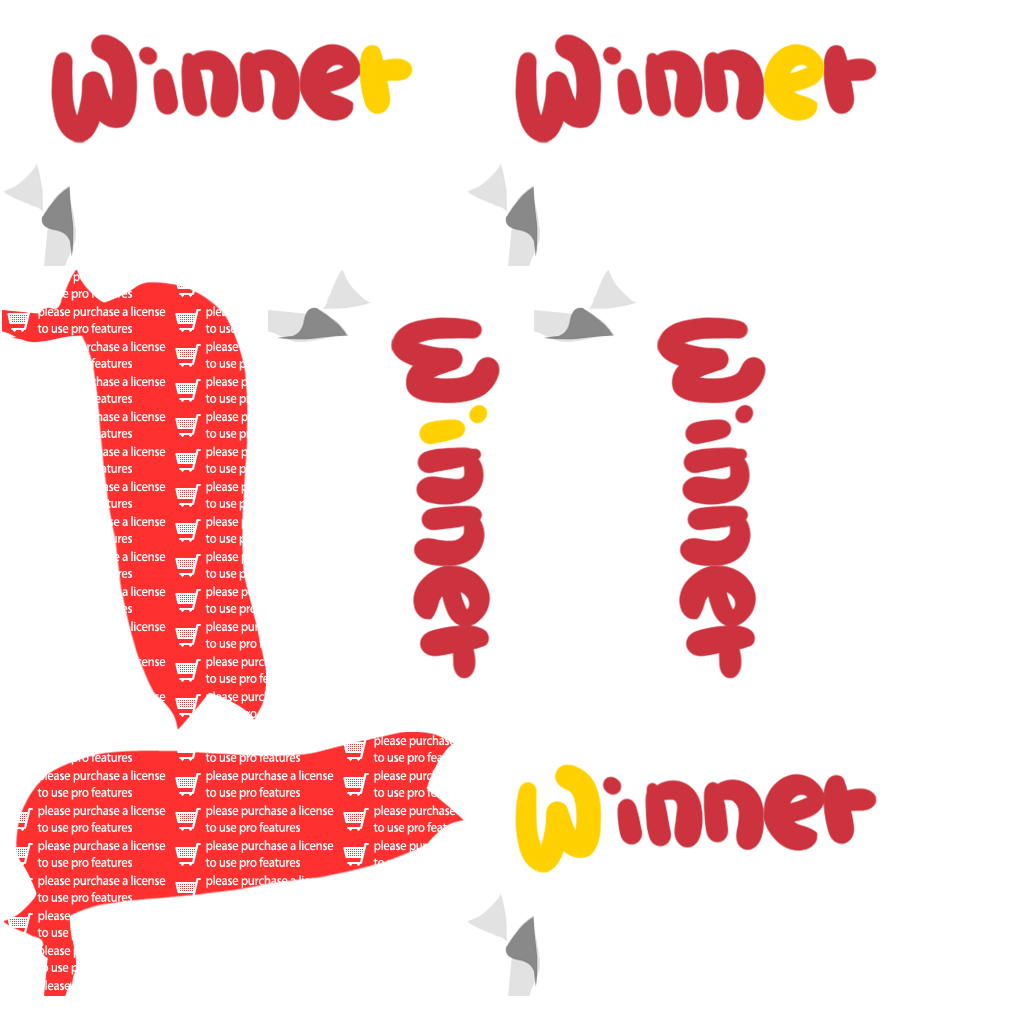
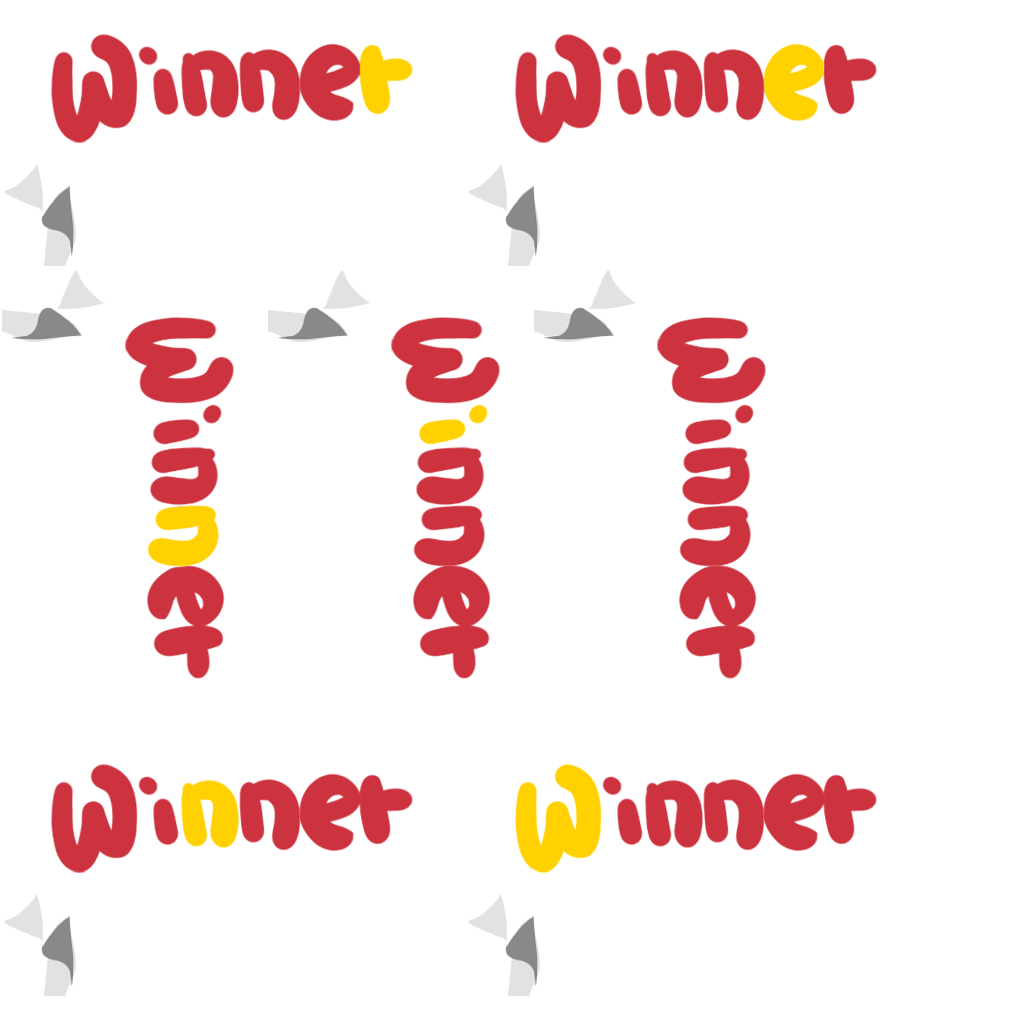
애니메이션 이미지 바꿈

Changed region(s): [[0.0, 0.25, 0.4688, 0.9688]]

diff --git a/Classes/ResultScoreLayer.cpp b/Classes/ResultScoreLayer.cpp
@@ -91,11 +91,11 @@ bool CResultScoreLayer::init()
             cache->addSpriteFramesWithFile(RESULT_WINNER_PLIST.c_str());
             
             
-            CCArray* animFrames = CCArray::createWithCapacity(6);
+            CCArray* animFrames = CCArray::createWithCapacity(7);
             
             char str[100] = {0};
             
-            for(int i = 1; i < 7; i++)
+            for(int i = 1; i < 8; i++)
             {
                 sprintf(str, "result_winner_ani_000%02d.png", i);
                 
@@ -109,7 +109,7 @@ bool CResultScoreLayer::init()
             spritebatch->addChild(pWinner);
             addChild(spritebatch,2);
 
-            CCAnimation* animation = CCAnimation::createWithSpriteFrames(animFrames,1.0f);
+            CCAnimation* animation = CCAnimation::createWithSpriteFrames(animFrames,0.3f);
             CCRepeatForever* repeatAction = CCRepeatForever::create(CCAnimate::create(animation));
             pWinner->runAction(repeatAction);
             pWinner->setPosition(ccp(position.x + RESULT_CHARACTER_IMAGE_POSITION_X_MARGIN, position.y + RESULT_CHARACTER_IMAGE_POSITION_Y_MARGIN));
